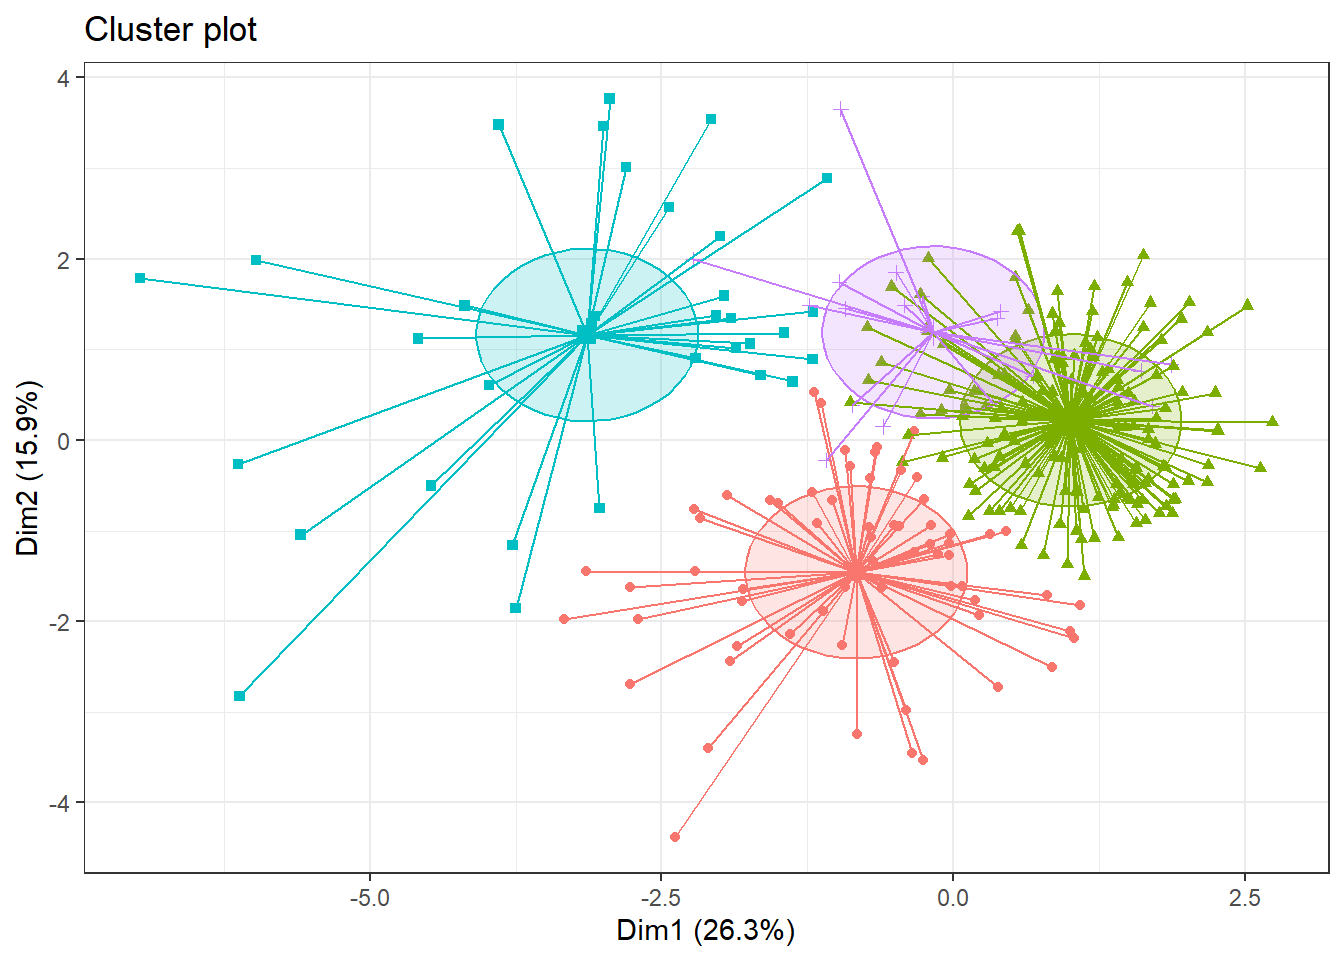
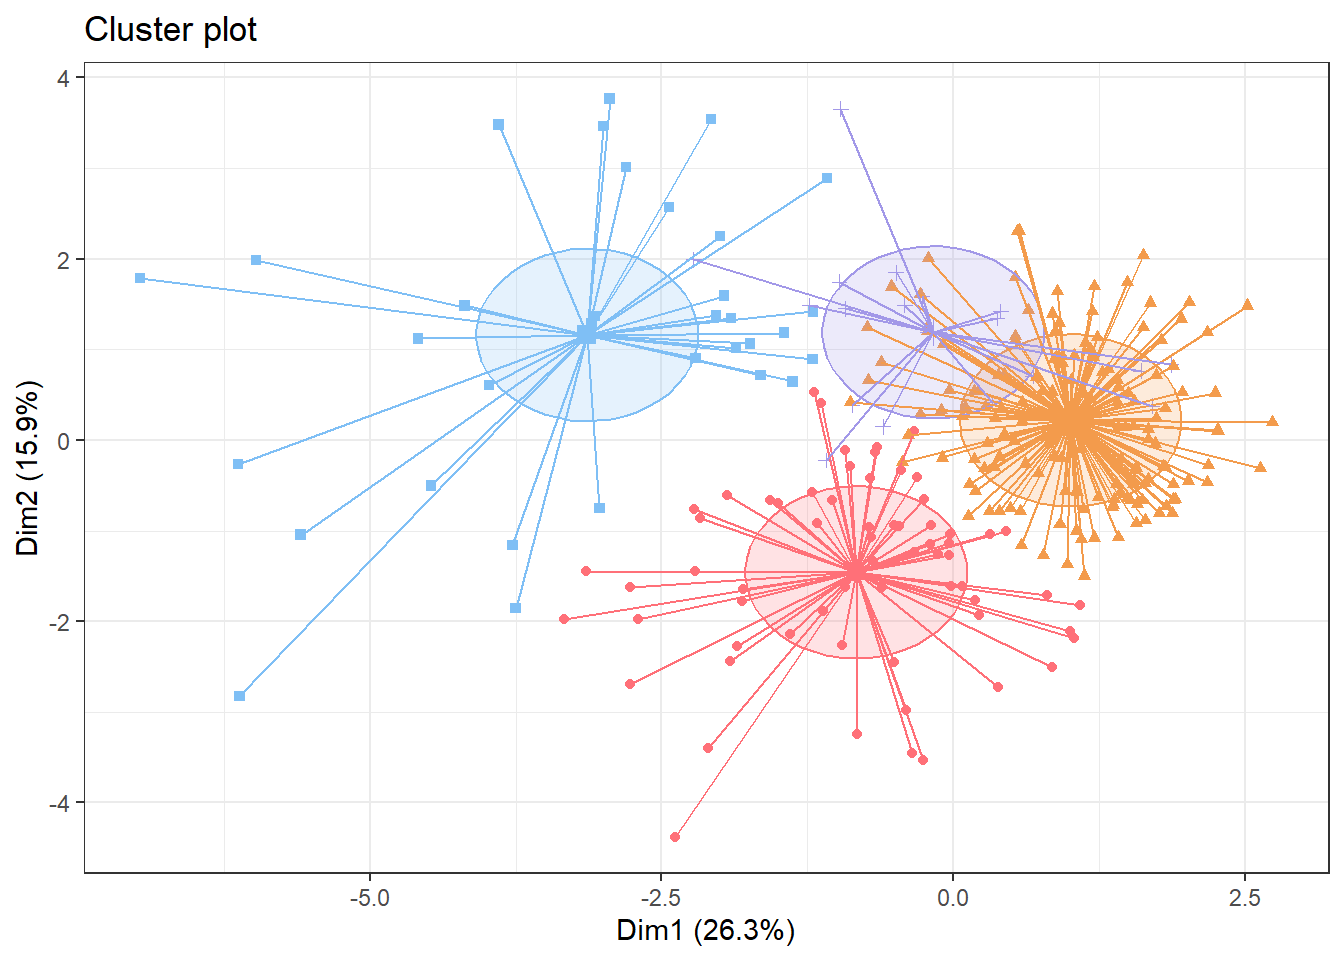
presentacion

diff --git a/Entrega_Clustering.html b/Entrega_Clustering.html
@@ -151,6 +151,7 @@ pre > code.sourceCode > span > a:first-child::before { text-decoration: underlin
 <h1>Recordatorio</h1>
 <p>Vamos a tratar una base de datos relacionados con la predicción de riesgo de cirrosis. La cirrosis es una etapa tardía de la cicatrización (fibrosis) del hígado causada por muchas formas de enfermedades y afecciones hepáticas, como la hepatitis y el alcoholismo crónico.</p>
 <p>Nuestro objetivo para este estudio sería estudiar algunos perfiles con riesgo de padecer cirrosis.</p>
+<p>Los datos provienen de la página web Kaggle: <a href="https://www.kaggle.com/datasets/fedesoriano/cirrhosis-prediction-dataset/">Kaggle - Cirrhosis</a>.</p>
 <p>Recordemos nuestra tabla de datos:</p>
 <div class="cell">
 <div class="sourceCode cell-code" id="cb2"><pre class="sourceCode r code-with-copy"><code class="sourceCode r"><span id="cb2-1"><a href="#cb2-1" aria-hidden="true" tabindex="-1"></a>datos <span class="ot">&lt;-</span> <span class="fu">read.table</span>(<span class="st">"cirrosis_tidy.csv"</span>,  <span class="at">header =</span> <span class="cn">TRUE</span> )</span>
@@ -357,7 +358,7 @@ Conclusion
 <p><img src="Entrega_Clustering_files/figure-html/unnamed-chunk-18-1.png" class="img-fluid" width="672"></p>
 </div>
 </div>
-<p>Vamos a calcular los 4 clusters con nuestros datos y con 30 iteraciones. Además, vamos a visualizar como ha quedado la partición.</p>
+<p>Vamos a calcular las 4 k-medias con nuestros datos y con 30 iteraciones. Además, vamos a visualizar como ha quedado la partición.</p>
 <div class="cell">
 <div class="sourceCode cell-code" id="cb19"><pre class="sourceCode r code-with-copy"><code class="sourceCode r"><span id="cb19-1"><a href="#cb19-1" aria-hidden="true" tabindex="-1"></a><span class="co">#set.seed(2312)</span></span>
 <span id="cb19-2"><a href="#cb19-2" aria-hidden="true" tabindex="-1"></a>km_clusters <span class="ot">&lt;-</span> <span class="fu">kmeans</span>(<span class="at">x =</span> cX, <span class="at">centers =</span> <span class="dv">4</span>, <span class="at">nstart =</span> <span class="dv">30</span>)</span>
@@ -373,10 +374,10 @@ Conclusion
 [260] 2 2 1 2 2 2 2 1 2 4 2 2 2 1 1 2 3</code></pre>
 </div>
 </div>
-<p>Ahora bien, representemos dichos clusters en el plano. Como nuestro número de variables (dimensionalidad) es mayor de 2, automáticamente realiza un PCA y representa las dos primeras componentes principales (Dim1 y Dim2)</p>
+<p>Ahora bien, representemos dichos clusters en el plano. Como nuestro número de variables (dimensionalidad) es mayor de 2, automáticamente realiza un PCA y representa las dos primeras componentes principales (Dim1 y Dim2).</p>
 <div class="cell">
 <div class="sourceCode cell-code" id="cb21"><pre class="sourceCode r code-with-copy"><code class="sourceCode r"><span id="cb21-1"><a href="#cb21-1" aria-hidden="true" tabindex="-1"></a><span class="fu">fviz_cluster</span>(<span class="at">object =</span> km_clusters, <span class="at">data =</span> cX, <span class="at">show.clust.cent =</span> <span class="cn">TRUE</span>, <span class="at">geom =</span><span class="st">"point"</span>,</span>
-<span id="cb21-2"><a href="#cb21-2" aria-hidden="true" tabindex="-1"></a> <span class="at">ellipse.type =</span> <span class="st">"euclid"</span>, <span class="at">star.plot =</span> <span class="cn">TRUE</span>, <span class="at">repel =</span> <span class="cn">TRUE</span>) <span class="sc">+</span></span>
+<span id="cb21-2"><a href="#cb21-2" aria-hidden="true" tabindex="-1"></a> <span class="at">ellipse.type =</span> <span class="st">"euclid"</span>, <span class="at">star.plot =</span> <span class="cn">TRUE</span>, <span class="at">repel =</span> <span class="cn">TRUE</span>, <span class="at">palette =</span> <span class="fu">c</span>(<span class="st">"#FF7078"</span>, <span class="st">"#F39B4C"</span>, <span class="st">"#7FBFF5"</span>, <span class="st">"#A298E8"</span>)) <span class="sc">+</span></span>
 <span id="cb21-3"><a href="#cb21-3" aria-hidden="true" tabindex="-1"></a><span class="fu">theme_bw</span>() <span class="sc">+</span></span>
 <span id="cb21-4"><a href="#cb21-4" aria-hidden="true" tabindex="-1"></a><span class="fu">theme</span>(<span class="at">legend.position =</span> <span class="st">"none"</span>)</span></code><button title="Copy to Clipboard" class="code-copy-button"><i class="bi"></i></button></pre></div>
 <div class="cell-output-display">
@@ -685,16 +686,7 @@ of ggplot2 3.3.4.
 275 311     2       2
 276 312     2       3</code></pre>
 </div>
-<div class="sourceCode cell-code" id="cb26"><pre class="sourceCode r code-with-copy"><code class="sourceCode r"><span id="cb26-1"><a href="#cb26-1" aria-hidden="true" tabindex="-1"></a><span class="fu">round</span>(<span class="dv">100</span><span class="sc">*</span><span class="fu">prop.table</span>(<span class="fu">table</span>(<span class="at">x =</span> tabla_cluster[,<span class="fu">c</span>(<span class="dv">2</span>,<span class="dv">3</span>)])), <span class="dv">3</span>)</span></code><button title="Copy to Clipboard" class="code-copy-button"><i class="bi"></i></button></pre></div>
-<div class="cell-output cell-output-stdout">
-<pre><code>     Cluster
-Stage      1      2      3      4
-    1  0.362  3.623  0.000  0.362
-    2  2.536 15.942  1.087  1.812
-    3  4.348 27.174  5.435  3.261
-    4 16.304 11.232  5.435  1.087</code></pre>
-</div>
-<div class="sourceCode cell-code" id="cb28"><pre class="sourceCode r code-with-copy"><code class="sourceCode r"><span id="cb28-1"><a href="#cb28-1" aria-hidden="true" tabindex="-1"></a><span class="fu">table</span>(<span class="at">x =</span> tabla_cluster[,<span class="fu">c</span>(<span class="dv">2</span>,<span class="dv">3</span>)])</span></code><button title="Copy to Clipboard" class="code-copy-button"><i class="bi"></i></button></pre></div>
+<div class="sourceCode cell-code" id="cb26"><pre class="sourceCode r code-with-copy"><code class="sourceCode r"><span id="cb26-1"><a href="#cb26-1" aria-hidden="true" tabindex="-1"></a><span class="fu">table</span>(<span class="at">x =</span> tabla_cluster[,<span class="fu">c</span>(<span class="dv">2</span>,<span class="dv">3</span>)])</span></code><button title="Copy to Clipboard" class="code-copy-button"><i class="bi"></i></button></pre></div>
 <div class="cell-output cell-output-stdout">
 <pre><code>     Cluster
 Stage  1  2  3  4
@@ -710,19 +702,19 @@ Stage  1  2  3  4
 <h2 class="anchored" data-anchor-id="k-medoids-pam">K-medoids (PAM)</h2>
 <p>En este caso, cada cluster está representado por una observación presente en el cluster (medoid), mientras que en K-means cada cluster está representado por su centroide, que se corresponde con el promedio de todas las observaciones del cluster pero con ninguna en particular.</p>
 <div class="cell">
-<div class="sourceCode cell-code" id="cb30"><pre class="sourceCode r code-with-copy"><code class="sourceCode r"><span id="cb30-1"><a href="#cb30-1" aria-hidden="true" tabindex="-1"></a><span class="fu">fviz_nbclust</span>(<span class="at">x =</span> cX, <span class="at">FUNcluster =</span> pam, <span class="at">method =</span> <span class="st">"wss"</span>,</span>
-<span id="cb30-2"><a href="#cb30-2" aria-hidden="true" tabindex="-1"></a> <span class="at">diss =</span> <span class="fu">dist</span>(datos, <span class="at">method =</span> <span class="st">"euclidean"</span>)) <span class="sc">+</span></span>
-<span id="cb30-3"><a href="#cb30-3" aria-hidden="true" tabindex="-1"></a>  <span class="fu">geom_vline</span>(<span class="at">xintercept =</span> <span class="dv">6</span>, <span class="at">linetype =</span> <span class="dv">2</span>)</span></code><button title="Copy to Clipboard" class="code-copy-button"><i class="bi"></i></button></pre></div>
+<div class="sourceCode cell-code" id="cb28"><pre class="sourceCode r code-with-copy"><code class="sourceCode r"><span id="cb28-1"><a href="#cb28-1" aria-hidden="true" tabindex="-1"></a><span class="fu">fviz_nbclust</span>(<span class="at">x =</span> cX, <span class="at">FUNcluster =</span> pam, <span class="at">method =</span> <span class="st">"wss"</span>,</span>
+<span id="cb28-2"><a href="#cb28-2" aria-hidden="true" tabindex="-1"></a> <span class="at">diss =</span> <span class="fu">dist</span>(datos, <span class="at">method =</span> <span class="st">"euclidean"</span>)) <span class="sc">+</span></span>
+<span id="cb28-3"><a href="#cb28-3" aria-hidden="true" tabindex="-1"></a>  <span class="fu">geom_vline</span>(<span class="at">xintercept =</span> <span class="dv">6</span>, <span class="at">linetype =</span> <span class="dv">2</span>)</span></code><button title="Copy to Clipboard" class="code-copy-button"><i class="bi"></i></button></pre></div>
 <div class="cell-output-display">
 <p><img src="Entrega_Clustering_files/figure-html/unnamed-chunk-23-1.png" class="img-fluid" width="672"></p>
 </div>
 </div>
 <div class="cell">
-<div class="sourceCode cell-code" id="cb31"><pre class="sourceCode r code-with-copy"><code class="sourceCode r"><span id="cb31-1"><a href="#cb31-1" aria-hidden="true" tabindex="-1"></a>pam_clusters <span class="ot">&lt;-</span> <span class="fu">pam</span>(<span class="at">x =</span> cX, <span class="at">k =</span> <span class="dv">6</span>, <span class="at">metric =</span> <span class="st">"euclidean"</span>)</span>
-<span id="cb31-2"><a href="#cb31-2" aria-hidden="true" tabindex="-1"></a></span>
-<span id="cb31-3"><a href="#cb31-3" aria-hidden="true" tabindex="-1"></a><span class="fu">fviz_cluster</span>(<span class="at">object =</span> pam_clusters, <span class="at">data =</span> cX, <span class="at">ellipse.type =</span> <span class="st">"t"</span>, <span class="at">geom =</span> <span class="st">"point"</span>,  <span class="at">repel =</span> <span class="cn">TRUE</span>) <span class="sc">+</span></span>
-<span id="cb31-4"><a href="#cb31-4" aria-hidden="true" tabindex="-1"></a>  <span class="fu">theme_bw</span>() <span class="sc">+</span> </span>
-<span id="cb31-5"><a href="#cb31-5" aria-hidden="true" tabindex="-1"></a>  <span class="fu">theme</span>(<span class="at">legend.position =</span> <span class="st">"none"</span>)</span></code><button title="Copy to Clipboard" class="code-copy-button"><i class="bi"></i></button></pre></div>
+<div class="sourceCode cell-code" id="cb29"><pre class="sourceCode r code-with-copy"><code class="sourceCode r"><span id="cb29-1"><a href="#cb29-1" aria-hidden="true" tabindex="-1"></a>pam_clusters <span class="ot">&lt;-</span> <span class="fu">pam</span>(<span class="at">x =</span> cX, <span class="at">k =</span> <span class="dv">6</span>, <span class="at">metric =</span> <span class="st">"euclidean"</span>)</span>
+<span id="cb29-2"><a href="#cb29-2" aria-hidden="true" tabindex="-1"></a></span>
+<span id="cb29-3"><a href="#cb29-3" aria-hidden="true" tabindex="-1"></a><span class="fu">fviz_cluster</span>(<span class="at">object =</span> pam_clusters, <span class="at">data =</span> cX, <span class="at">ellipse.type =</span> <span class="st">"t"</span>, <span class="at">geom =</span> <span class="st">"point"</span>,  <span class="at">repel =</span> <span class="cn">TRUE</span>) <span class="sc">+</span></span>
+<span id="cb29-4"><a href="#cb29-4" aria-hidden="true" tabindex="-1"></a>  <span class="fu">theme_bw</span>() <span class="sc">+</span> </span>
+<span id="cb29-5"><a href="#cb29-5" aria-hidden="true" tabindex="-1"></a>  <span class="fu">theme</span>(<span class="at">legend.position =</span> <span class="st">"none"</span>)</span></code><button title="Copy to Clipboard" class="code-copy-button"><i class="bi"></i></button></pre></div>
 <div class="cell-output-display">
 <p><img src="Entrega_Clustering_files/figure-html/unnamed-chunk-24-1.png" class="img-fluid" width="672"></p>
 </div>
@@ -731,11 +723,11 @@ Stage  1  2  3  4
 <section id="dendograma" class="level2">
 <h2 class="anchored" data-anchor-id="dendograma">Dendograma</h2>
 <div class="cell" data-hash="Entrega_Clustering_cache/html/unnamed-chunk-25_4f4ba6f84080bfcb883bd6dbc7b1c018">
-<div class="sourceCode cell-code" id="cb32"><pre class="sourceCode r code-with-copy"><code class="sourceCode r"><span id="cb32-1"><a href="#cb32-1" aria-hidden="true" tabindex="-1"></a><span class="fu">set.seed</span>(<span class="dv">101</span>)</span>
-<span id="cb32-2"><a href="#cb32-2" aria-hidden="true" tabindex="-1"></a>hc_completo <span class="ot">&lt;-</span> datos_quant <span class="sc">%&gt;%</span> <span class="fu">scale</span>() <span class="sc">%&gt;%</span> <span class="fu">dist</span>(<span class="at">method =</span> <span class="st">"euclidean"</span>) <span class="sc">%&gt;%</span></span>
-<span id="cb32-3"><a href="#cb32-3" aria-hidden="true" tabindex="-1"></a> <span class="fu">hclust</span>(<span class="at">method =</span> <span class="st">"complete"</span>)</span>
-<span id="cb32-4"><a href="#cb32-4" aria-hidden="true" tabindex="-1"></a><span class="fu">fviz_dend</span>(<span class="at">x =</span> hc_completo, <span class="at">k =</span> <span class="dv">3</span>, <span class="at">cex =</span> <span class="fl">0.6</span>) <span class="sc">+</span></span>
-<span id="cb32-5"><a href="#cb32-5" aria-hidden="true" tabindex="-1"></a> <span class="fu">geom_hline</span>(<span class="at">yintercept =</span> <span class="fl">10.5</span>, <span class="at">linetype =</span> <span class="st">"dashed"</span>)</span></code><button title="Copy to Clipboard" class="code-copy-button"><i class="bi"></i></button></pre></div>
+<div class="sourceCode cell-code" id="cb30"><pre class="sourceCode r code-with-copy"><code class="sourceCode r"><span id="cb30-1"><a href="#cb30-1" aria-hidden="true" tabindex="-1"></a><span class="fu">set.seed</span>(<span class="dv">101</span>)</span>
+<span id="cb30-2"><a href="#cb30-2" aria-hidden="true" tabindex="-1"></a>hc_completo <span class="ot">&lt;-</span> datos_quant <span class="sc">%&gt;%</span> <span class="fu">scale</span>() <span class="sc">%&gt;%</span> <span class="fu">dist</span>(<span class="at">method =</span> <span class="st">"euclidean"</span>) <span class="sc">%&gt;%</span></span>
+<span id="cb30-3"><a href="#cb30-3" aria-hidden="true" tabindex="-1"></a> <span class="fu">hclust</span>(<span class="at">method =</span> <span class="st">"complete"</span>)</span>
+<span id="cb30-4"><a href="#cb30-4" aria-hidden="true" tabindex="-1"></a><span class="fu">fviz_dend</span>(<span class="at">x =</span> hc_completo, <span class="at">k =</span> <span class="dv">3</span>, <span class="at">cex =</span> <span class="fl">0.6</span>) <span class="sc">+</span></span>
+<span id="cb30-5"><a href="#cb30-5" aria-hidden="true" tabindex="-1"></a> <span class="fu">geom_hline</span>(<span class="at">yintercept =</span> <span class="fl">10.5</span>, <span class="at">linetype =</span> <span class="st">"dashed"</span>)</span></code><button title="Copy to Clipboard" class="code-copy-button"><i class="bi"></i></button></pre></div>
 <div class="cell-output cell-output-stderr">
 <pre><code>Warning: The `&lt;scale&gt;` argument of `guides()` cannot be `FALSE`. Use "none" instead as
 of ggplot2 3.3.4.
@@ -751,7 +743,7 @@ of ggplot2 3.3.4.
 <h2 class="anchored" data-anchor-id="análisis-de-componentes-principales">Análisis de Componentes Principales</h2>
 <p>Calculamos las componentes principales con el comando <code>prcomp</code> utilizando nuestro dataset, sin escalar los datos ya que están todos en la misma escala. Por último, los consideramos centrados en el 0.</p>
 <div class="cell">
-<div class="sourceCode cell-code" id="cb34"><pre class="sourceCode r code-with-copy"><code class="sourceCode r"><span id="cb34-1"><a href="#cb34-1" aria-hidden="true" tabindex="-1"></a>datos.acp<span class="ot">=</span><span class="fu">prcomp</span>(cX, <span class="at">scale =</span> <span class="cn">FALSE</span>, <span class="at">center =</span> <span class="cn">FALSE</span>)</span></code><button title="Copy to Clipboard" class="code-copy-button"><i class="bi"></i></button></pre></div>
+<div class="sourceCode cell-code" id="cb32"><pre class="sourceCode r code-with-copy"><code class="sourceCode r"><span id="cb32-1"><a href="#cb32-1" aria-hidden="true" tabindex="-1"></a>datos.acp<span class="ot">=</span><span class="fu">prcomp</span>(cX, <span class="at">scale =</span> <span class="cn">FALSE</span>, <span class="at">center =</span> <span class="cn">FALSE</span>)</span></code><button title="Copy to Clipboard" class="code-copy-button"><i class="bi"></i></button></pre></div>
 </div>
 <p>Los valores propios muestran el porcentaje de varianza explicada por cada componente principal.</p>
 <div class="cell">

diff --git a/slides_clustering.html b/slides_clustering.html
@@ -627,10 +627,11 @@ $ Stage         &lt;fct&gt; 4, 3, 4, 4, 3, 3, 3, 2, 4, 4, 4, 3, 3, 3, 4, 4, 3, 4
 <section>
 <section id="clustering" class="title-slide slide level1 center">
 <h1>Clustering</h1>
-<p>Vamos a escoger los datos cuantitativos y los valos a escalar y centrar:</p>
+<p>Vamos a escoger los datos cuantitativos y los valos a escalar.</p>
 <div class="cell">
 <div class="sourceCode cell-code" id="cb4"><pre class="sourceCode numberSource r number-lines code-with-copy"><code class="sourceCode r"><span id="cb4-1"><a href="#cb4-1"></a>datos2 <span class="ot">&lt;-</span> datos_quant <span class="sc">%&gt;%</span> <span class="fu">scale</span>()</span></code><button title="Copy to Clipboard" class="code-copy-button"><i class="bi"></i></button></pre></div>
 </div>
+<p>A continuación, los centramos.</p>
 <div class="cell">
 <div class="sourceCode cell-code" id="cb5"><pre class="sourceCode numberSource r number-lines code-with-copy"><code class="sourceCode r"><span id="cb5-1"><a href="#cb5-1"></a>n <span class="ot">&lt;-</span> <span class="fu">dim</span>(datos2)[<span class="dv">1</span>]</span>
 <span id="cb5-2"><a href="#cb5-2"></a>X <span class="ot">&lt;-</span> <span class="fu">as.matrix</span>(datos2)</span>
@@ -640,7 +641,7 @@ $ Stage         &lt;fct&gt; 4, 3, 4, 4, 3, 3, 3, 2, 4, 4, 4, 3, 3, 3, 4, 4, 3, 4
 </section>
 <section id="section-4" class="slide level2">
 <h2></h2>
-<p>Calculamos la matriz de distancias:</p>
+<h3 id="matriz-de-distancias">Matriz de distancias</h3>
 
 <img data-src="slides_clustering_files/figure-revealjs/unnamed-chunk-9-1.png" width="960" class="r-stretch"></section>
 <section id="k-means" class="slide level2">
@@ -670,7 +671,35 @@ $ Stage         &lt;fct&gt; 4, 3, 4, 4, 3, 3, 3, 2, 4, 4, 4, 3, 3, 3, 4, 4, 3, 4
 </div>
 
 </div>
-<img data-src="slides_clustering_files/figure-revealjs/unnamed-chunk-13-1.png" width="960" class="r-stretch"><div class="footer footer-default">
+<img data-src="slides_clustering_files/figure-revealjs/unnamed-chunk-13-1.png" width="960" class="r-stretch"></section>
+<section id="section-6" class="slide level2">
+<h2></h2>
+<p>Vamos a calcular las 4 k-medias con nuestros datos y con 30 iteraciones.</p>
+<div class="cell">
+<div class="sourceCode cell-code" id="cb7"><pre class="sourceCode numberSource r number-lines code-with-copy"><code class="sourceCode r"><span id="cb7-1"><a href="#cb7-1"></a>km_clusters <span class="ot">&lt;-</span> <span class="fu">kmeans</span>(<span class="at">x =</span> cX, <span class="at">centers =</span> <span class="dv">4</span>, <span class="at">nstart =</span> <span class="dv">30</span>)</span></code><button title="Copy to Clipboard" class="code-copy-button"><i class="bi"></i></button></pre></div>
+</div>
+<p>Representamos dichos clusters en el plano. Como nuestro número de variables (dimensionalidad) es mayor de 2, automáticamente realiza un PCA y representa las dos primeras componentes principales (Dim1 y Dim2).</p>
+
+<img data-src="slides_clustering_files/figure-revealjs/unnamed-chunk-15-1.png" width="960" class="r-stretch"></section>
+<section id="section-7" class="slide level2">
+<h2></h2>
+<p>Observemos el dendograma</p>
+
+<img data-src="slides_clustering_files/figure-revealjs/unnamed-chunk-16-1.png" width="960" class="r-stretch"></section>
+<section id="section-8" class="slide level2">
+<h2></h2>
+<p>Sería interesante ver si estos clusters corresponden a las fases de cirrosis segun la variable <code>stage</code>. Veamos la tabla de frecuencias:</p>
+<center>
+<img src="tabla_freqs.png" width="300px">
+</center>
+<p>No se corresponden con los clusters. Simplemente podemos decir:</p>
+<ul>
+<li>Pacientes en <strong>Stage 1</strong>: Cluster 2</li>
+<li>Pacientes en <strong>Stage 2</strong>: Cluster 2</li>
+<li>Pacientes en <strong>Stage 3</strong>: Cluster 2</li>
+<li>Pacientes en <strong>Stage 4</strong>: Cluster 1 y 2</li>
+</ul>
+<div class="footer footer-default">
 
 </div>
 </section></section>

diff --git a/styles.css b/styles.css
@@ -1,0 +1,4 @@
+.language-r,
+.language-R {
+    font-size: 40px;
+}
